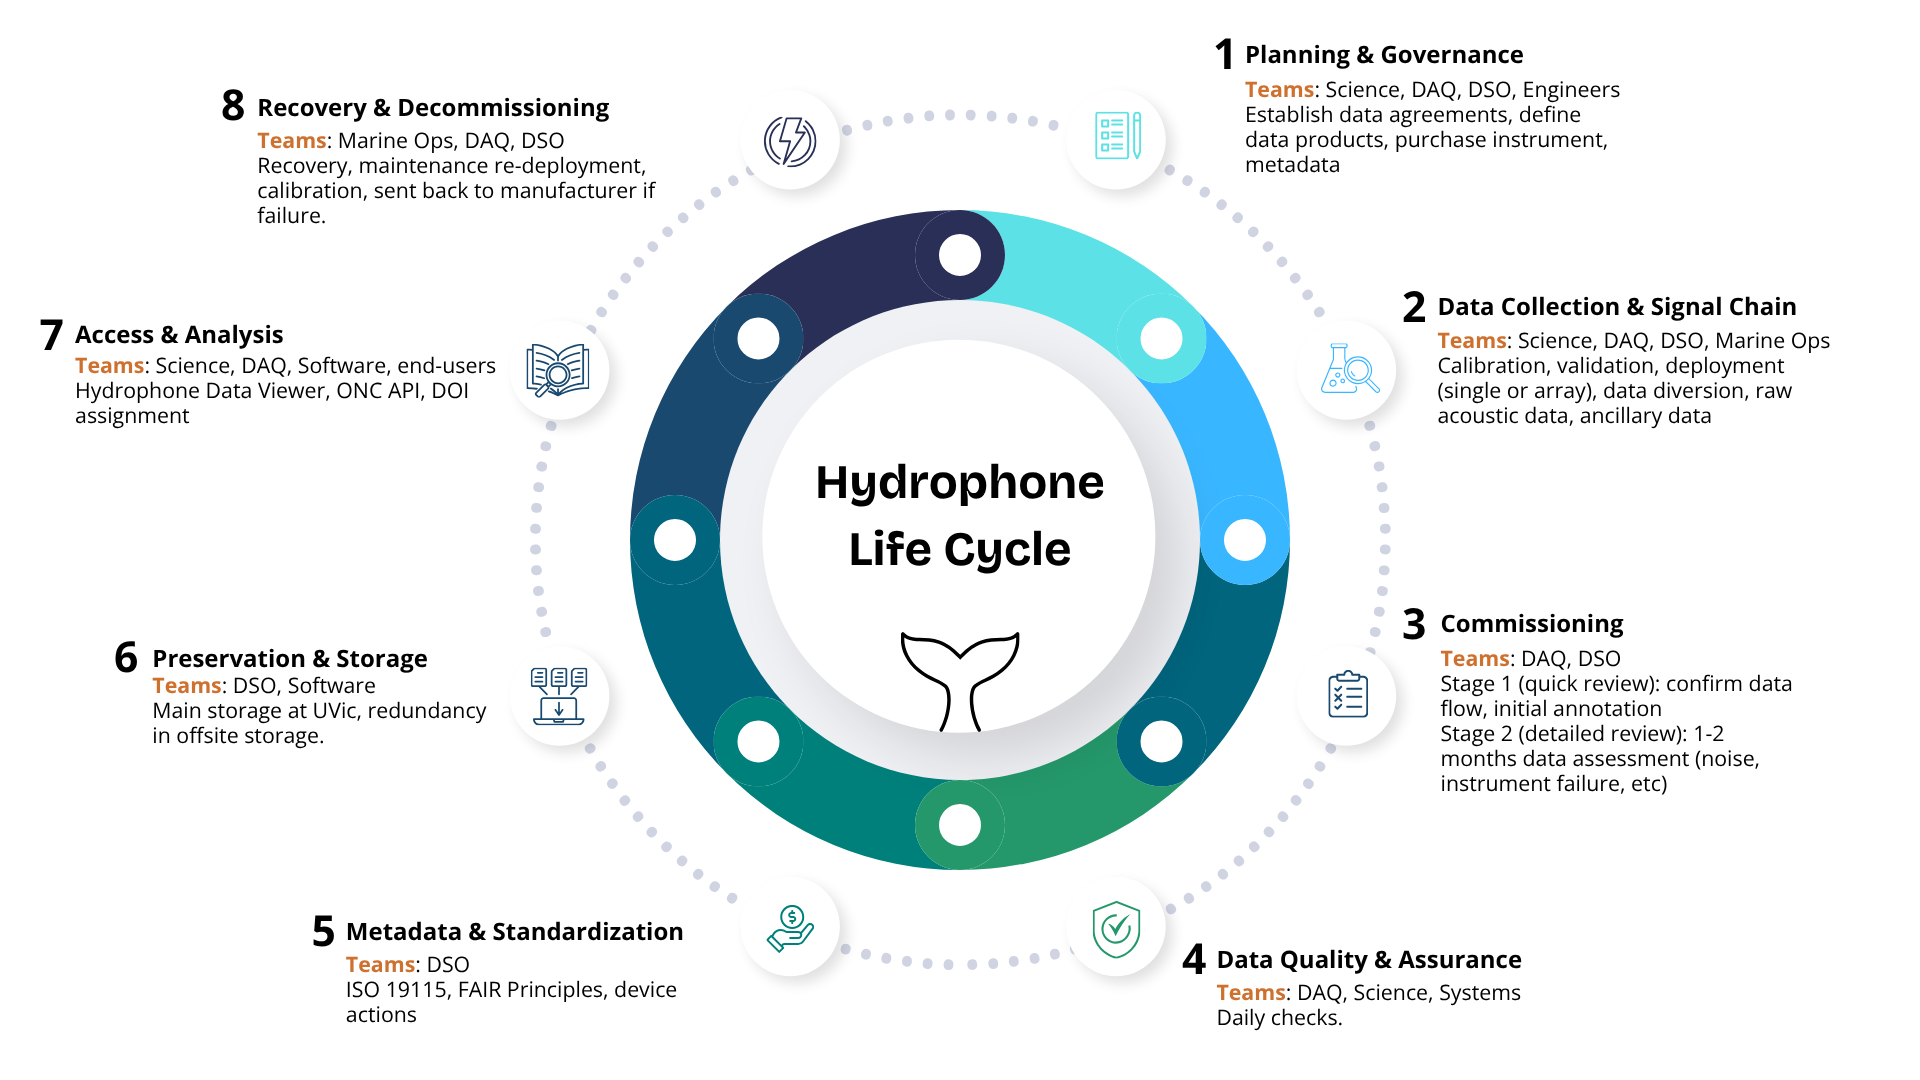
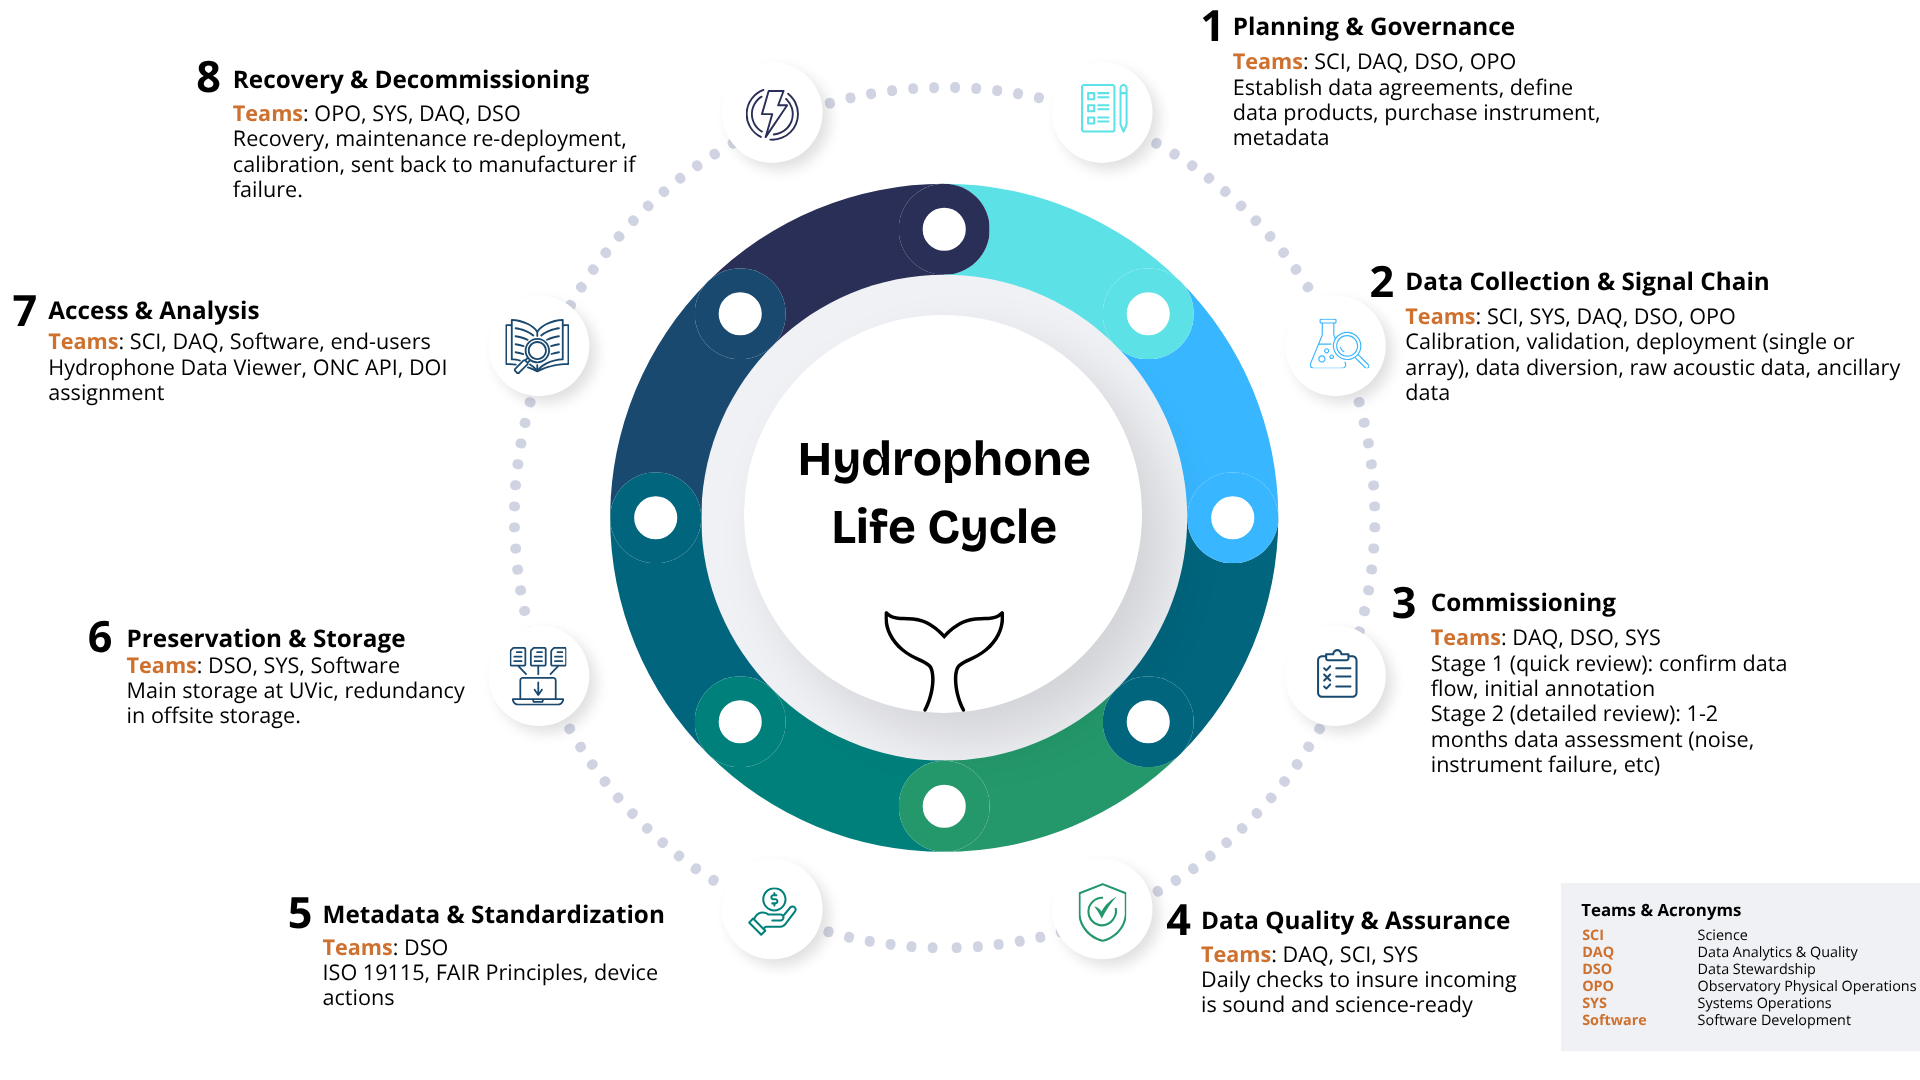
acronyms life cycle

diff --git a/_book/sections/3-hydrophone-life-cycle.html b/_book/sections/3-hydrophone-life-cycle.html
@@ -344,7 +344,7 @@ ul.task-list li input[type="checkbox"] {
 <!-- link to canva where the hydrophone life cycle image was created: https://canva.link/erzgms3fvn7dyz6 -->
 <section id="planning-and-governance" class="level1">
 <h1>1. Planning and governance</h1>
-<p><em>Teams involved: Science, DAQ, DSO, Engineers</em></p>
+<p><em>Teams involved: SCI, DAQ, DSO, OPO</em></p>
 <p>Before a hydrophone is deployed in the water, the following legal and technical steps must be taken:</p>
 <ul>
 <li><strong>Data Agreements</strong>: ONC establishes legal agreements to define data ownership, usage restrictions, and attribution.</li>
@@ -354,7 +354,7 @@ ul.task-list li input[type="checkbox"] {
 </section>
 <section id="data-collection-signal-chain" class="level1">
 <h1>2. Data collection &amp; signal chain</h1>
-<p><em>Teams involved: DAQ, DSO, Systems, Marine Ops, Engineers</em></p>
+<p><em>Teams involved: SCI, SYS, DAQ, DSO, OPO</em></p>
 <ul>
 <li><strong>Hardware</strong>: We primarily use <strong>Ocean Sonics</strong> (HF/AF) and <strong>GeoSpectrum</strong> (from JASCO distributor) instruments, deployed as single units or four-element arrays.</li>
 <li><strong>Calibration (HydroCal)</strong>: Instruments undergo rigorous pre-deployment and post-recovery calibration to ensure accuracy. If sensors drift, they are returned to the manufacturer.</li>
@@ -371,10 +371,10 @@ ul.task-list li input[type="checkbox"] {
 </section>
 <section id="commissioning" class="level1">
 <h1>3. Commissioning</h1>
-<p><em>Teams involved: DAQ, DSO</em></p>
+<p><em>Teams involved: DAQ, DSO, SYS</em></p>
 <p>Once a hydrophone is deployed and recording data, the commissioning of the device starts. This process is designed to catch technical issues early and ensures the data is “science-ready”.</p>
 <ul>
-<li><strong>Immediate Post-Deployment</strong>: Immediately after deployment, we confirm the instrument is able to record and send data to ONC archive. A public annotation is created in Oceans 3.0 to mark the start of the data streaming. A JIRA ticket is created which consolidates all relevant information.</li>
+<li><strong>Immediate Post-Deployment</strong>: Immediately after deployment, we confirm the instrument is able to record and send data to ONC archive. A public annotation is created in Oceans 3.0 to mark the start of the data streaming.</li>
 <li><strong>1-2 Months Post-Deployment</strong>: A detailed analysis of data stream is performed, and several elements are analysed including the presence of noise, saturation, array consistency (for 4 elements arrays), auxiliary data.</li>
 </ul>
 <p>The commissioning ticket is closed once the data is confirmed found in the Hydrophone Data Viewer, accessible through ONC API, and that the data products are generated correctly.</p>
@@ -382,7 +382,7 @@ ul.task-list li input[type="checkbox"] {
 </section>
 <section id="data-quality-assurance" class="level1">
 <h1>4. Data quality &amp; assurance</h1>
-<p><em>Teams involved: DAQ, Science, Systems</em></p>
+<p><em>Teams involved: DAQ, SCI, SYS</em></p>
 <p>Because hydrophone data is classified as <em>complex</em> data (unlike <em>scalar</em> data), standard automated QAQC (like those for temperature or salinity) does not yet exist.</p>
 <ul>
 <li><strong>Manual Inspection</strong>: The DAQ team performs daily visual checks for issues like clipping, electronic interference, energy spikes, sensitivity drifts.</li>
@@ -402,7 +402,7 @@ ul.task-list li input[type="checkbox"] {
 </section>
 <section id="preservation-storage" class="level1">
 <h1>6. Preservation &amp; storage</h1>
-<p><em>Teams involved: Software, DSO, Systems</em></p>
+<p><em>Teams involved: DSO, SYS, Software</em></p>
 <ul>
 <li><strong>Primary Storage</strong>: Terabytes of data are stored locally at the University of Victoria data centre.</li>
 <li><strong>Redundancy</strong>: A complete offsite backup is maintained to prevent data loss, and also shares data processing load.</li>
@@ -410,7 +410,7 @@ ul.task-list li input[type="checkbox"] {
 </section>
 <section id="access-analysis" class="level1">
 <h1>7. Access &amp; analysis</h1>
-<p><em>Teams involved: Science, DSO, Software, End-Users</em></p>
+<p><em>Teams involved: SCI, DAQ, Software, End-Users</em></p>
 <ul>
 <li><strong>Discovery</strong>: Users find data via Oceans 3.0 using Data Search, the Hydrophone Viewer (5-minute spectrogram previews), or the API.</li>
 <li><strong>Identification</strong>: Each dataset is assigned a <strong>DOI</strong> (Digital Object Identifier) to ensure researchers can cite the specific data they used in their papers.</li>
@@ -418,7 +418,7 @@ ul.task-list li input[type="checkbox"] {
 </section>
 <section id="recovery-decommissioning" class="level1">
 <h1>8. Recovery &amp; decommissioning</h1>
-<p><em>Teams involved: DSO, Marine Ops, Systems</em></p>
+<p><em>Teams involved: OPO, SYS, DAQ, DSO</em></p>
 <p>The end of a deployement does not mean the end of a instrument’s use. Hydrophones are often re-deployed during the ONC maintenance cruises, or returning to MTC of the manufacturer for maintenance.</p>
 <ul>
 <li><strong>Post-Recovery Calibration</strong>: Once a hydrophone is pulled out of the water, calibration is performed to check if sensitivity shifted dramatically while underwater. If the before and after are very different, the instrument is often sent back to the manufacturer.</li>

diff --git a/_book/sections/4-how-hydrophones-work.html b/_book/sections/4-how-hydrophones-work.html
@@ -135,7 +135,7 @@ ul.task-list li input[type="checkbox"] {
   <h1>Hydrophone Handbook</h1>
   <p class="handbook-banner-tagline">from the whale to the user</p>
   <div class="handbook-banner-org">
-    Data Analytics &amp; Quality | Ocean Networks Canada
+    Ocean Networks Canada
   </div>
   <p class="handbook-banner-date" id="handbook-compile-date"></p>
 </div>

diff --git a/_book/sections/5-physics-of-sound.html b/_book/sections/5-physics-of-sound.html
@@ -135,7 +135,7 @@ ul.task-list li input[type="checkbox"] {
   <h1>Hydrophone Handbook</h1>
   <p class="handbook-banner-tagline">from the whale to the user</p>
   <div class="handbook-banner-org">
-    Data Analytics &amp; Quality | Ocean Networks Canada
+    Ocean Networks Canada
   </div>
   <p class="handbook-banner-date" id="handbook-compile-date"></p>
 </div>
